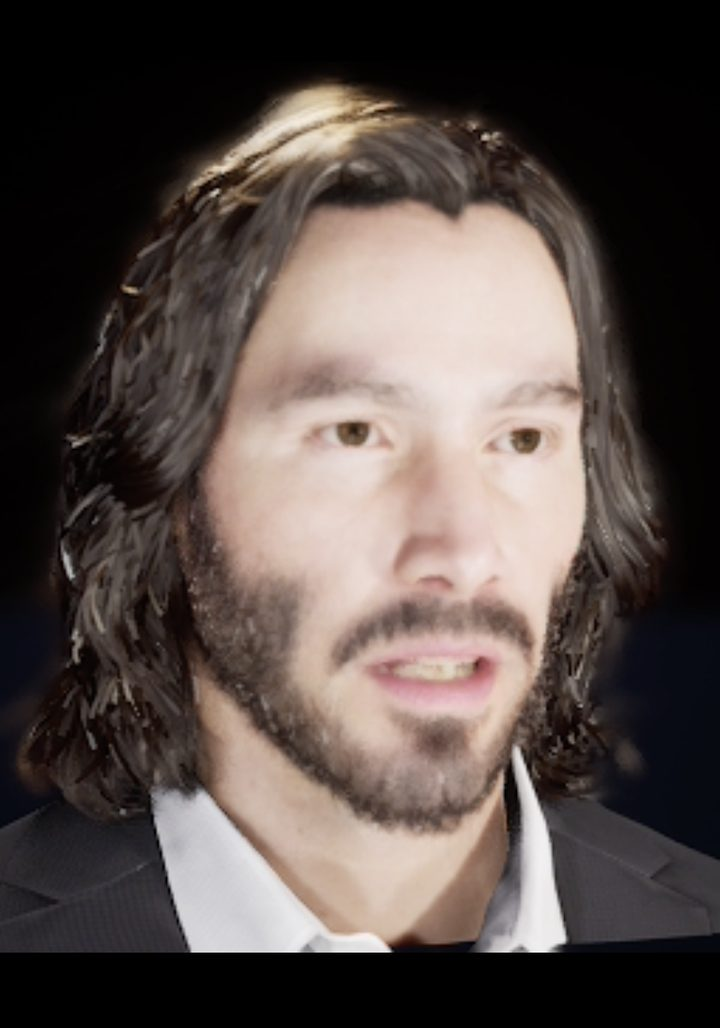
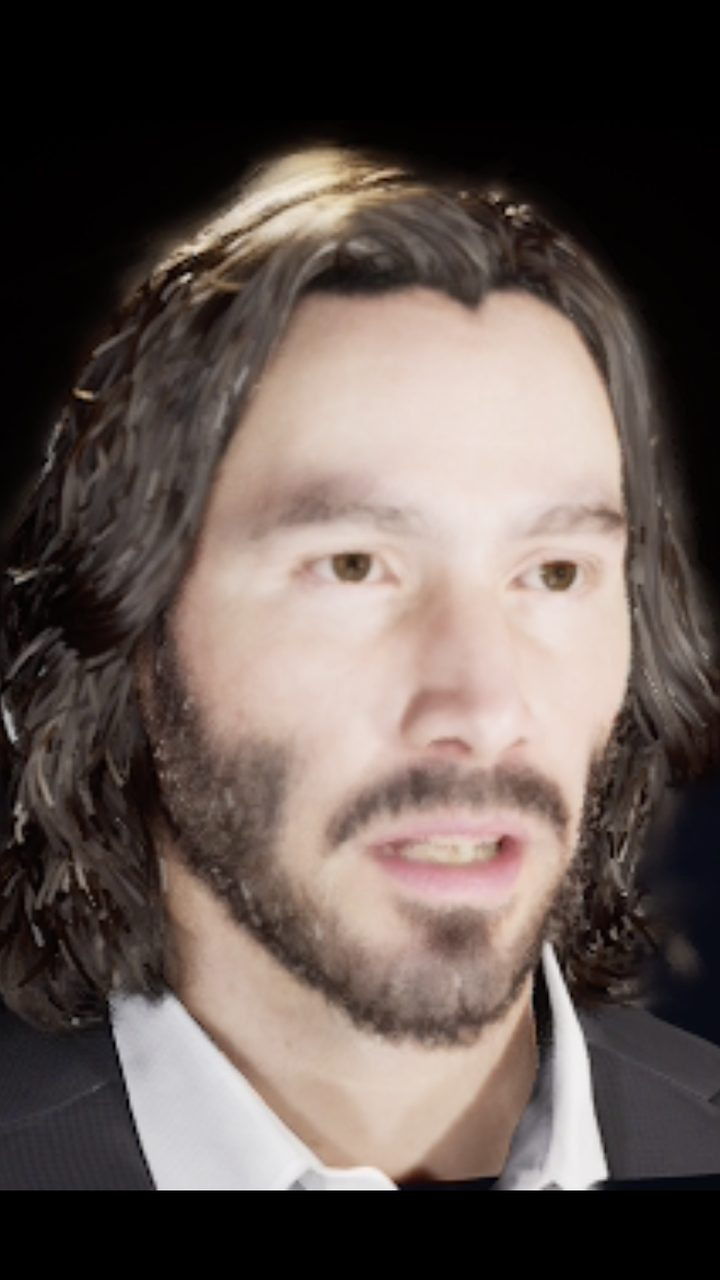
feat(embed): póster de Neo en 9:16, 16:9 y 1:1 con más aire — ★0 de DEC-mry168ssks90
Retrato re-encuadrado con más espacio sobre la cabeza; nuevas variantes 16:9 (retrato
centrado sobre lienzo oscuro, look cinematográfico) y 1:1 (cabeza y hombros). El embed
elige la que toca con <picture> + media (min-aspect-ratio), así luce en los tres formatos
que ofrece mh-embed.js en vez de recortar el retrato.

Ejecutado por Morfeo16 al vencer el reloj sin respuesta (opción recomendada).

diff --git a/embed-mh.html b/embed-mh.html
@@ -30,7 +30,8 @@
   /* Póster real de Neo: <img> + velo, en vez de background-image (más fiable de encuadrar). */
   .facade{ position:absolute; inset:0; z-index:4; display:flex; flex-direction:column; align-items:center; justify-content:flex-end; gap:14px; cursor:pointer;
     text-align:center; padding:20px 20px 26px; background:#05080f; overflow:hidden }
-  .facade .poster{ position:absolute; inset:0; width:100%; height:100%; object-fit:cover; object-position:center 28%; z-index:0; display:block }
+  .facade picture{ display:contents }   /* que el <img> se posicione contra .facade, no contra el <picture> */
+  .facade .poster{ position:absolute; inset:0; width:100%; height:100%; object-fit:cover; object-position:center center; z-index:0; display:block }
   .facade .veil{ position:absolute; inset:0; z-index:1; pointer-events:none;
     background:linear-gradient(to bottom, rgba(5,8,15,.28) 0%, rgba(5,8,15,.12) 40%, rgba(5,8,15,.84) 74%, rgba(5,8,15,.97) 100%) }
   .facade .code{ position:absolute; inset:0; opacity:.07; overflow:hidden; font-family:ui-monospace,SFMono-Regular,Menlo,monospace; color:#2ee6a6; font-size:12px; line-height:1.15; letter-spacing:2px; white-space:pre; pointer-events:none }
@@ -58,7 +59,11 @@
     <div class="stage">
       <div class="bar"><span class="live"><span class="dot"></span>EN VIVO</span> · MetaHuman · Pixel Streaming</div>
       <div class="facade" id="facade">
-        <img class="poster" src="assets/neo-poster.jpg" alt="Neo, humano digital MetaHuman" loading="eager" decoding="async">
+        <picture>
+          <source media="(min-aspect-ratio: 5/4)" srcset="assets/neo-poster-16x9.jpg">
+          <source media="(min-aspect-ratio: 4/5)" srcset="assets/neo-poster-1x1.jpg">
+          <img class="poster" src="assets/neo-poster.jpg" alt="Neo, humano digital MetaHuman" loading="eager" decoding="async">
+        </picture>
         <div class="veil" aria-hidden="true"></div>
         <div class="code" id="code" aria-hidden="true"></div>
         <div class="z">
